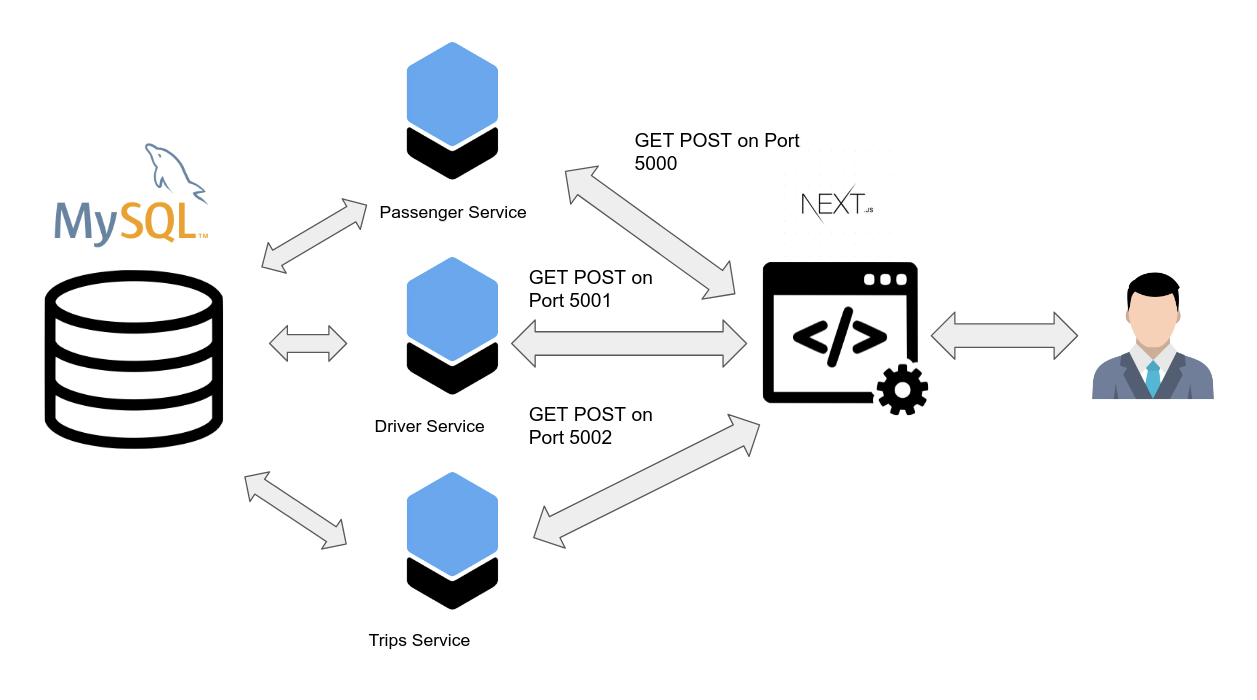
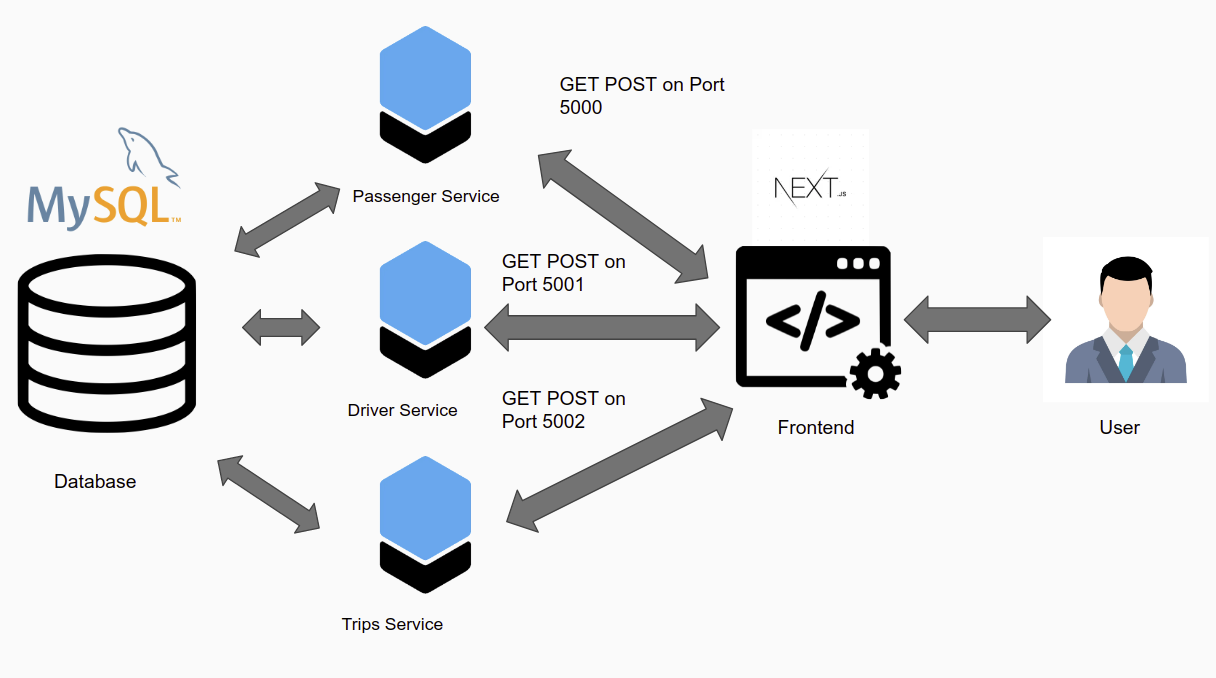
added docs

diff --git a/README.md b/README.md
@@ -6,7 +6,9 @@
 
 There are 3 microservices (Passenger, Driver and Trips). The Passenenger service will handle the creation and updating of passenger information. The Driver service will handle the creation and updating of driver information. The Trip service will handle the creation of trips and retrieving of trip information. These 3 services will have an MySQL database connected to fetch and store data.
 
-### Separation of concerns for passenger and driver users
+### Separation of concerns for passenger and driver
+
+As users are seperated by passenger and driver and each play their different roles, each passenger and driver should belong to different business domains. For example, a passenger is able to request a trip while a driver cannot.
 
 It is best practices to allow each portion of the program to handle one portion of application logic. In this case, the choice to separate the passenger and driver was to allow each microservice to handle one set of logic. In addition, this gives better isolation of logic which aids in maintainability as logic is associated to a particual domain.
 
@@ -28,7 +30,7 @@ Reactjs is a component based web framework which makes User interface (UI) resua
 | First Name    | first name of passenger        | string |
 | Last Name     | last name of passenger         | string |
 | Moblie Number | moblie number of passenger     | string |
-| email address | email address of passenger     | string |
+| Email address | email address of passenger     | string |
 
 > Driver struct
 
@@ -38,7 +40,7 @@ Reactjs is a component based web framework which makes User interface (UI) resua
 | First Name           | first name of Driver                                      | string |
 | Last Name            | last name of Driver                                       | string |
 | Moblie Number        | moblie number of Driver                                   | string |
-| email address        | email address of Driver                                   | string |
+| Email address        | email address of Driver                                   | string |
 | CarLicenseNo         | Car License Number of Driver                              | string |
 | IdentificationNumber | Identification Number of Driver                           | string |
 | DriverStatus         | status of driver , 1 means available, 0 means unavailable | int    |
@@ -59,19 +61,11 @@ Reactjs is a component based web framework which makes User interface (UI) resua
 
 ![Architecture Diagram](https://github.com/ZacharyHRQ/ETI-Assignment/blob/main/Architecture.png)
 
-### Features
-
-> Passenger service
-
-#### Create Passenger
-
-![Architecture Diagram](https://github.com/ZacharyHRQ/ETI-Assignment/blob/main/Architecture.png)
-
 ## Instructions for setting up and running
 
 ### Prerequites
 
-- [NodeJs](https://nodejs.org/en/)
+- [NodeJs](https://nodejs.org/en/) (comes with npm)
 - Golang
 
 ### Ports used
@@ -81,10 +75,12 @@ Reactjs is a component based web framework which makes User interface (UI) resua
 - Trips service - 5002
 
 - Reactjs Frontend - 3000
+- MySQL database - 3306
 
 ### How to run
 
 Before running the services do remember to run the runDB.sql sql script located in sql folder to load database.
+For each service, you would need to change into the respective directory from this project folder.
 
 #### Run Passenger service on Port 5000
 
